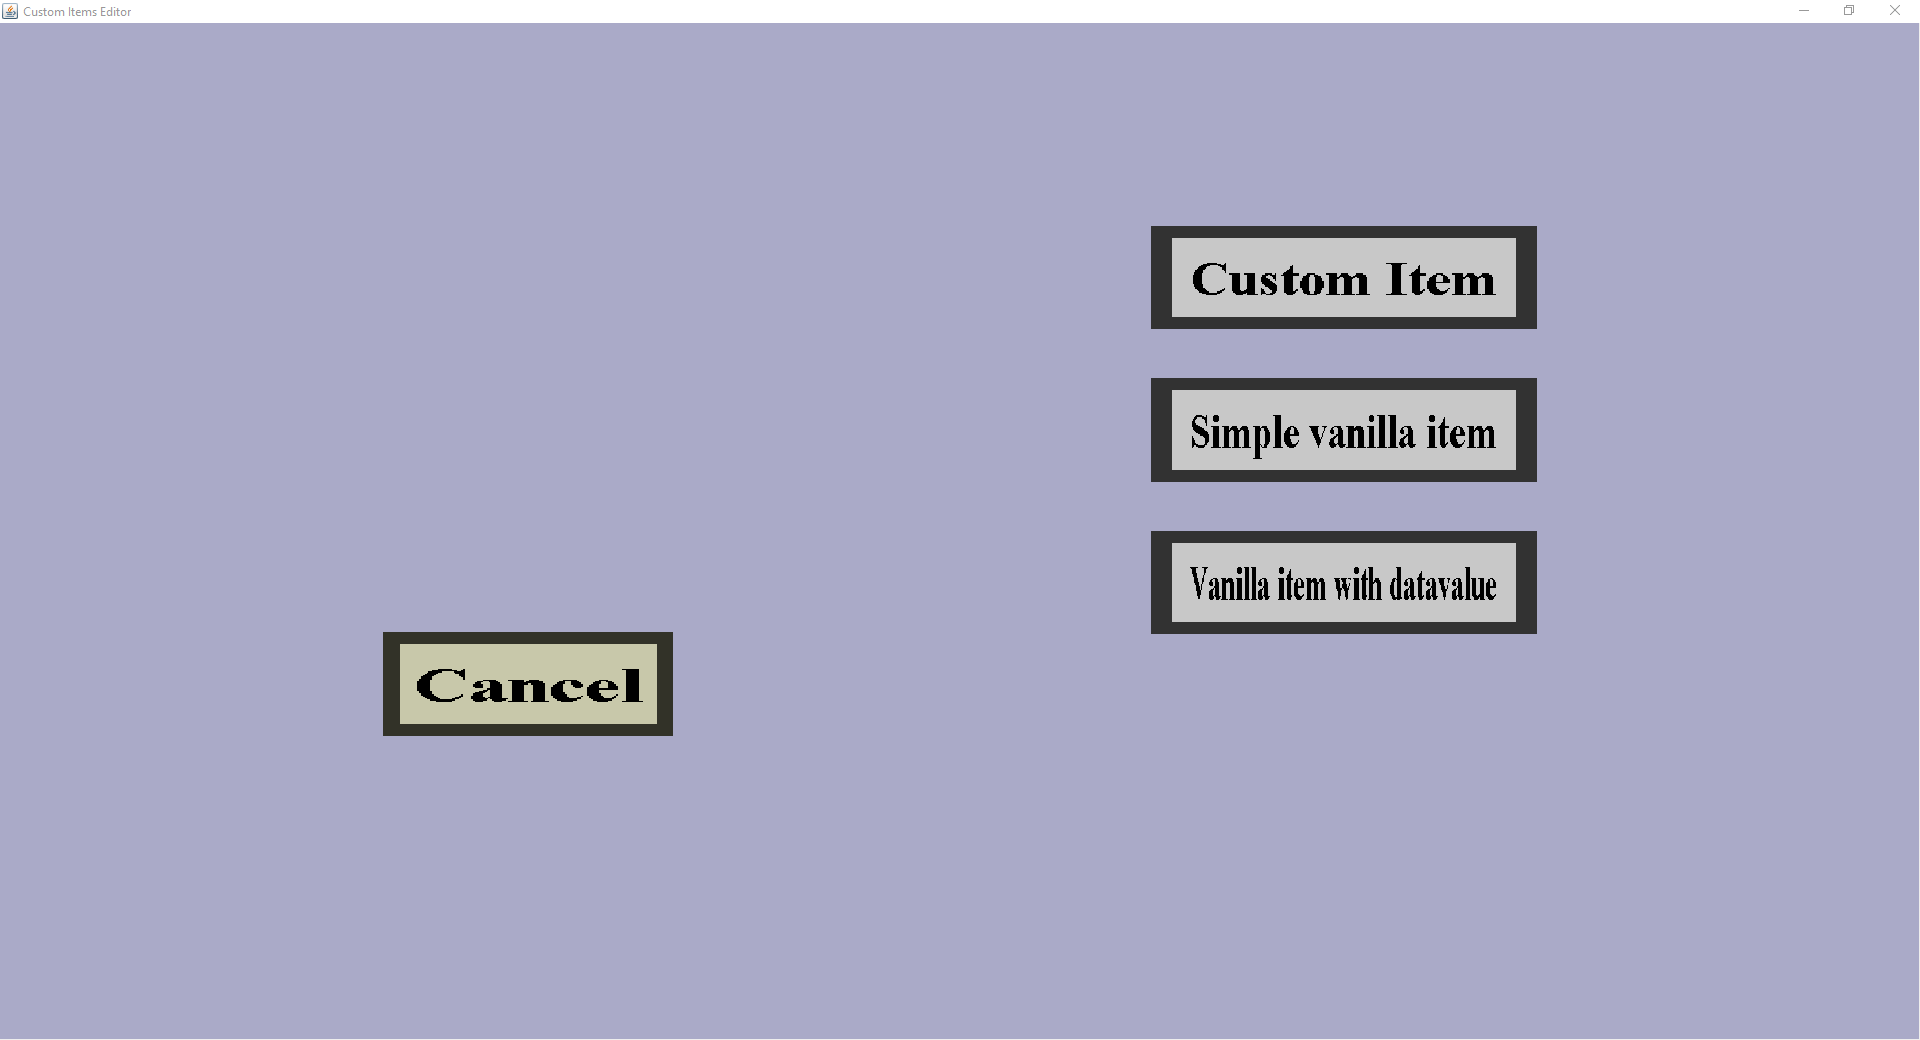
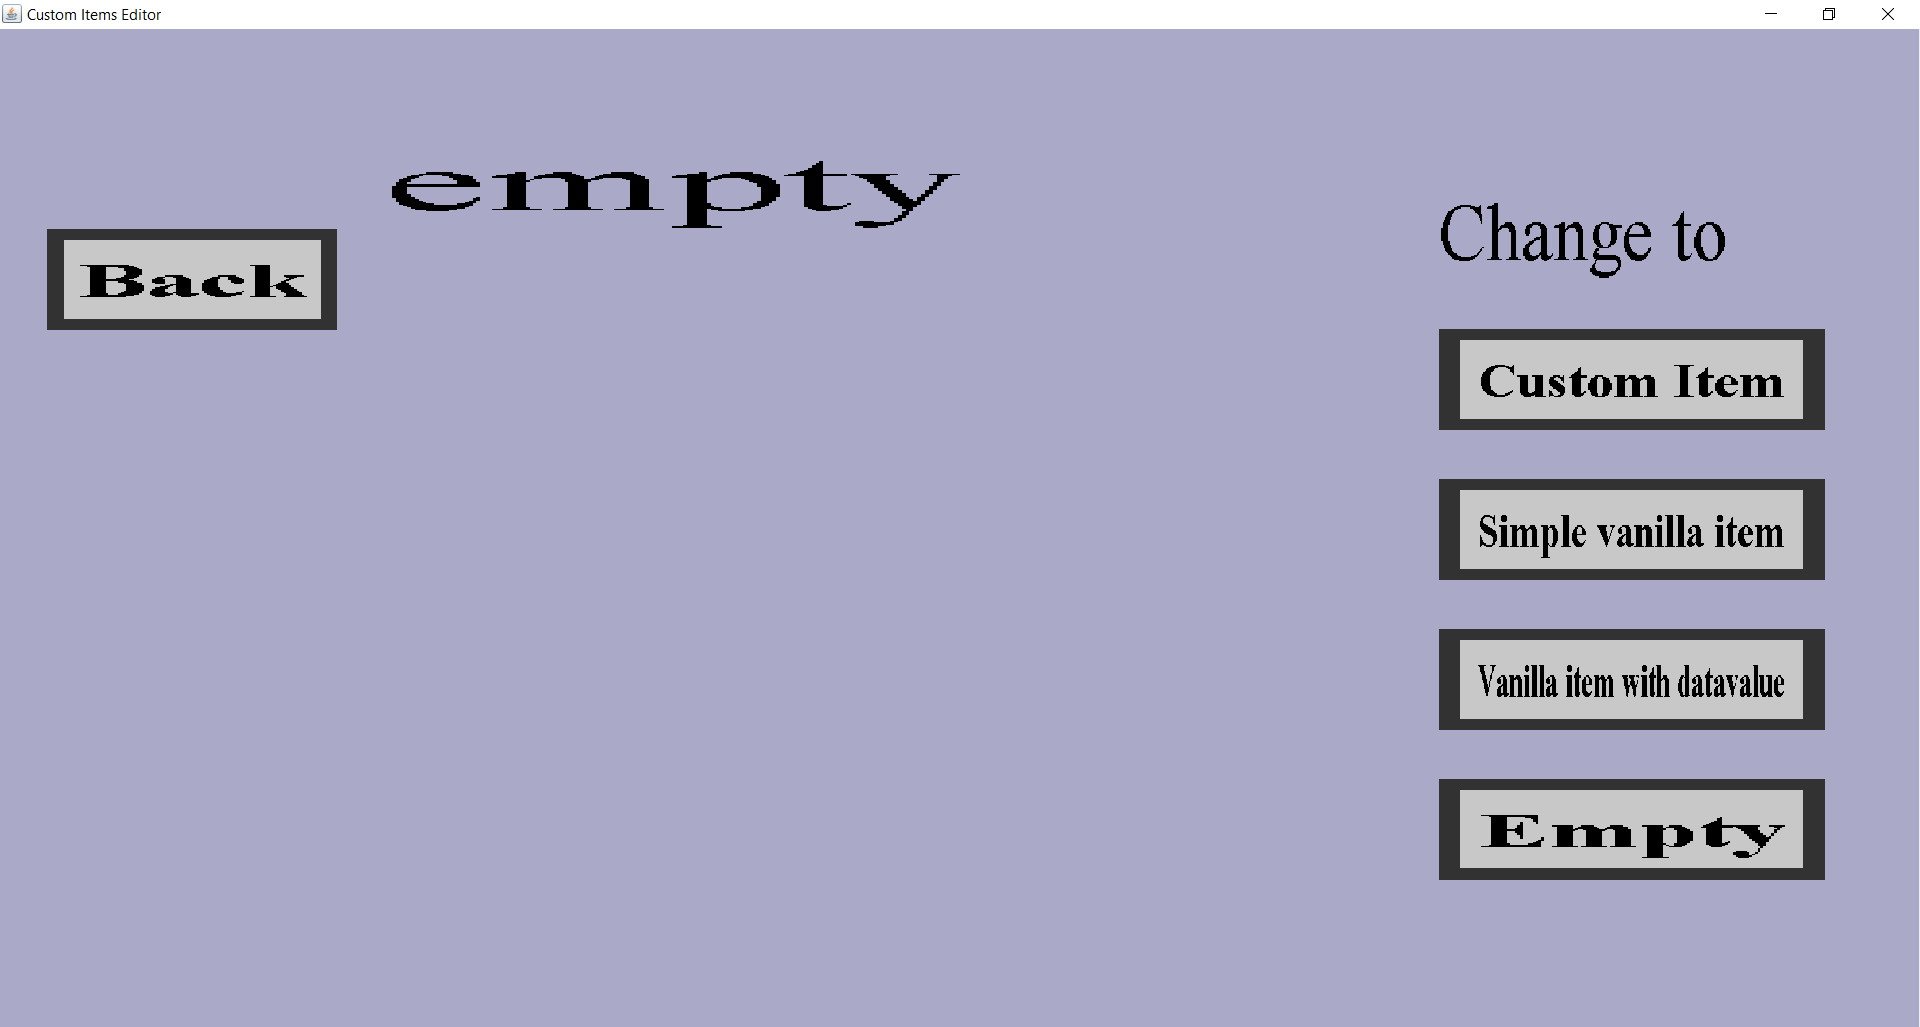
Change the info to the new shapeless recipe edit menu

diff --git a/custom items/editor documentation/edit menu/recipes/shapeless.html b/custom items/editor documentation/edit menu/recipes/shapeless.html
@@ -7,13 +7,14 @@
     <body>
         <p>
             The create shapeless recipe menu is the menu from which you can add, edit and delete crafting ingredients for a shapeless recipe.
-            It should look like this:
+            If you are editing a shapeless recipe that crafts a stick into a diamond, it should look like this:
         </p>
         <img src="shapeless.png" width="50%" />
         <p>
             For more information about a shapeless recipe, visit the respective page on the 
             <a href="https://minecraft.gamepedia.com/Crafting#Java_.26_Bedrock_Edition_crafting_system">Minecraft Wiki</a>
-            The menu consists out of the of three buttons, the 'Add ingredient' button, the 'Result' button and the 'Cancel button'.
+            The menu has a 'Cancel', 'Add ingredient', result and 'Apply' or 'Create' button and 'Copy' and 'Delete' buttons 
+            for each ingredient the recipe currently has.
         </p>
         <h2>Buttons</h2>
         <h3>Cancel</h3>
@@ -30,32 +31,33 @@
         <p>
             The 'Add ingredient' button opens up a submenu where you can select which type of item will be part of the crafting recipe.
             For more information, visit <a href="type select.html">this</a> page.
-            After adding an ingredient, the page should look like this:
         </p>
         <h3>Hotkeys</h3>
         <p>
             If you are adding a lot of crafting recipes, you might note that this requires a lot of time and clicks.
-            To speed this up, you can use the hotkeys <b>c</b>, <b>v</b>, or <b>d</b> while hovering your mouse over the 
-            'Add ingredient' button. These are for <b>C</b>ustom item, <b>V</b>anilla item and vanilla item with <b>D</b>atavalue respectively.
+            To speed this up, you can use the hotkeys <b>c</b>, <b>v</b>, or <b>d</b>. 
+            These are for <b>C</b>ustom item, <b>V</b>anilla item and vanilla item with <b>D</b>atavalue respectively.
         </p>
-        <img src="shapeless filled.png" width="50%" />
         <h3>Apply</h3>
         <p>
-            The 'Apply' button does the same thing as the 'Cancel' button except that it does remember the changes you have made.
+            The 'Apply' will only be visible when you are editing an existing recipe. 
+            This button does the same thing as the 'Cancel' button except that it does remember the changes you have made.
             Do note that the changes are not saved physically until you have pressed the 'Save' button in the <a href="../">Item Set Edit Menu</a>.
         </p>
-        <h3>Ingredient</h3>
+        <h3>Create</h3>
         <p>
-            The 'Ingredient' button is the button that contains the name of the item that is part of this crafting recipe. 
-            There can be multiple or none of these buttons on the same page.
-            Clicking on this button opens up a submenu where you can change which type of item will be part of the crafting recipe.
-            For more information, visit <a href="type select.html">this</a> page.
+            The 'Create' button will only be visible when you are adding a new shapeless recipe.
+            Clicking it will add this new recipe and then take you back to the recipe overview.
         </p>
-        <h3>Red X</h3>
+        <h3>Copy</h3>
         <p>
-            Pressing this red x will delete the ingredient from the crafting recipe.
-            NOTE: At the time of writing this there is a bug where the space used by the ingredient button and the red X remains empty.
-            This is currently being looked at. Please be patient, it will be fixed soon<sup>TM</sup>.
+            The 'Copy' button will copy the corresponding ingredient and insert it as new ingredient.
+            So if you copy a Stick ingredient, the recipe will require 1 stick more.
+        </p>
+        <h3>Delete</h3>
+        <p>
+            Pressing this delete will delete the ingredient from the crafting recipe.
+            You can still revert this deletion by clicking the 'Cancel' button.
         </p>
     </body>
 </html>

diff --git a/custom items/editor documentation/edit menu/recipes/type select.html b/custom items/editor documentation/edit menu/recipes/type select.html
@@ -11,13 +11,14 @@
         </p>
         <img src="type select.png" width="50%" />
         <p>
-            The menu consists out of the type buttons on the right and a cancel button on the left.
+            The menu consists out of the type buttons on the right and a back button on the left.
+            In the middle is a description of the currently selected ingredient (possibly 'empty').
         </p>
         <p>
-            The 'Cancel' button will take you back to the previous menu (being <a href="shapeless.html">Create Shapeless Recipe</a> or <a href="shaped.html">Create Shaped Recipe</a>).
+            The 'Back' button will take you back to the previous menu (being <a href="shapeless.html">Create Shapeless Recipe</a> or <a href="shaped.html">Create Shaped Recipe</a>).
         </p>
         <p>
-            The item type buttons, opens up a submenu where you can select an item of that type.
+            The item type buttons, open up a submenu where you can select an item of that type.
             For more information, visit the respective pages:
             <ul>
                 <li><a href="custom.html">Custom Items</a></li>
